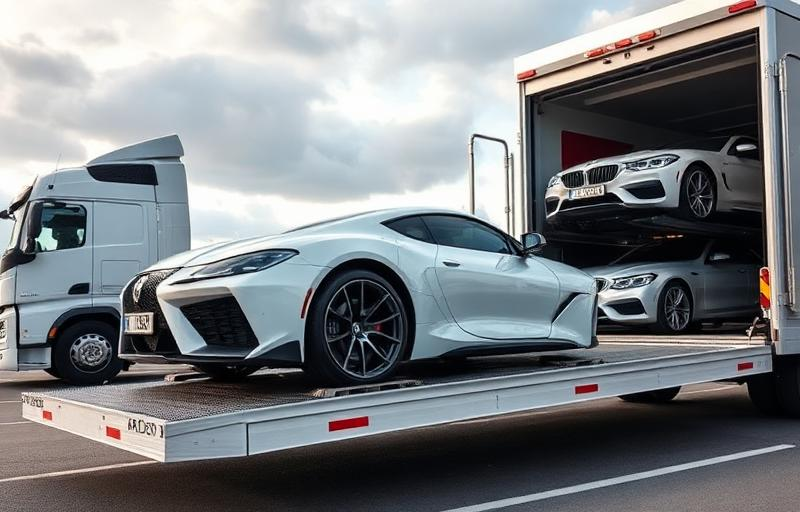
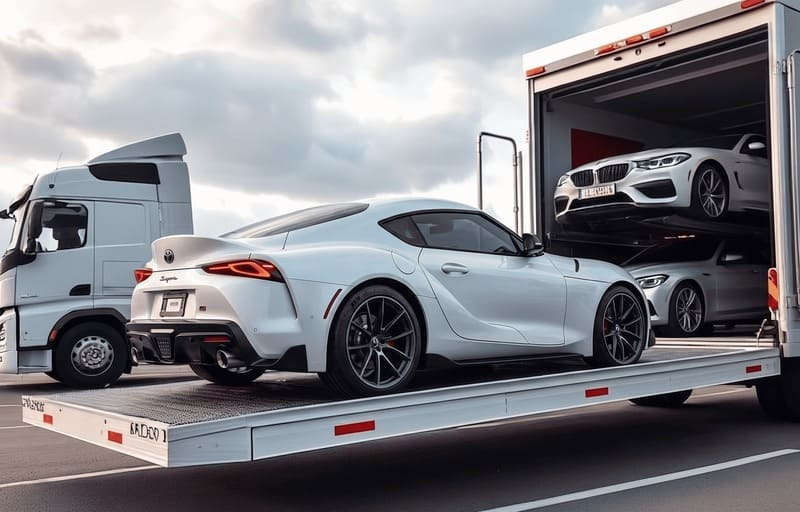
Few design changes and support for whatsapp

diff --git a/src/components/brand/WhatsappIcon.tsx b/src/components/brand/WhatsappIcon.tsx
@@ -1,0 +1,15 @@
+import React from "react";
+
+export function WhatsappIcon(props: React.SVGProps<SVGSVGElement>) {
+  return (
+    <svg
+      viewBox="0 0 24 24"
+      fill="currentColor"
+      width="1em"
+      height="1em"
+      {...props}
+    >
+      <path d="M17.472 14.382c-.297-.149-1.758-.867-2.03-.967-.273-.099-.471-.148-.67.15-.197.297-.767.966-.94 1.164-.173.199-.347.223-.644.075-.297-.15-1.255-.463-2.39-1.475-.883-.788-1.48-1.761-1.653-2.059-.173-.297-.018-.458.13-.606.134-.133.298-.347.446-.52.149-.174.198-.298.298-.497.099-.198.05-.371-.025-.52-.075-.149-.669-1.612-.916-2.207-.242-.579-.487-.5-.669-.51-.173-.008-.371-.01-.57-.01-.198 0-.52.074-.792.372-.272.297-1.04 1.016-1.04 2.479 0 1.462 1.065 2.875 1.213 3.074.149.198 2.096 3.2 5.077 4.487.709.306 1.262.489 1.694.625.712.227 1.36.195 1.871.118.571-.085 1.758-.719 2.006-1.413.248-.694.248-1.289.173-1.413-.074-.124-.272-.198-.57-.347m-5.421 7.403h-.004a9.87 9.87 0 01-5.031-1.378l-.361-.214-3.741.982.998-3.648-.235-.374a9.86 9.86 0 01-1.51-5.26c.001-5.45 4.436-9.884 9.888-9.884 2.64 0 5.122 1.03 6.988 2.898a9.825 9.825 0 012.893 6.994c-.003 5.45-4.437 9.884-9.885 9.884m8.413-18.297A11.815 11.815 0 0012.05 0C5.495 0 .16 5.335.157 11.892c0 2.096.547 4.142 1.588 5.945L0 24l6.335-1.662c1.746.953 3.71 1.458 5.704 1.459h.005c6.554 0 11.89-5.335 11.893-11.893a11.821 11.821 0 00-3.48-8.413z" />
+    </svg>
+  );
+}

diff --git a/src/components/layout/SiteFooter.tsx b/src/components/layout/SiteFooter.tsx
@@ -11,6 +11,7 @@ import {
 import { NexaviaLogo } from "@/components/brand/NexaviaLogo";
 import { Container } from "./Container";
 import { contactInfo, quickLinks, servicesList } from "./nav-config";
+import { WhatsappIcon } from "@/components/brand/WhatsappIcon";
 
 export function SiteFooter() {
   return (
@@ -30,6 +31,7 @@ export function SiteFooter() {
                 { Icon: Linkedin, href: "https://www.linkedin.com/company/nexaviaglobalcargo", label: "LinkedIn" },
                 { Icon: Facebook, href: "#", label: "Facebook" },
                 { Icon: Instagram, href: "https://www.instagram.com/nexavia_global_cargo/", label: "Instagram" },
+                { Icon: WhatsappIcon, href: "https://wa.me/[phone redacted]?text=I'd%20like%20to%20know%20about%20the%20services", label: "WhatsApp" },
                 { Icon: Mail, href: `mailto:${contactInfo.email}`, label: "Email" },
               ].map(({ Icon, href, label }) => (
                 <a
@@ -80,7 +82,18 @@ export function SiteFooter() {
             </div>
             <div className="flex gap-3 text-sm text-white/70">
               <Phone className="h-4 w-4 shrink-0 text-gold mt-0.5" />
-              <a href={`tel:${contactInfo.phone}`}>{contactInfo.phone}</a>
+              <a href={`tel:${contactInfo.phone}`} className="hover:text-gold transition-colors">{contactInfo.phone}</a>
+            </div>
+            <div className="flex gap-3 text-sm text-white/70">
+              <WhatsappIcon className="h-4 w-4 shrink-0 text-gold mt-0.5" />
+              <a
+                href="https://wa.me/971501753459?text=I'd%20like%20to%20know%20about%20the%20services"
+                target="_blank"
+                rel="noopener noreferrer"
+                className="hover:text-gold transition-colors"
+              >
+                {contactInfo.phone} (WhatsApp)
+              </a>
             </div>
             <div className="flex gap-3 text-sm text-white/70">
               <Mail className="h-4 w-4 shrink-0 text-gold mt-0.5" />

diff --git a/src/components/marketing/ProposalModal.tsx b/src/components/marketing/ProposalModal.tsx
@@ -22,6 +22,7 @@ import {
 } from "@/components/ui/select";
 import { ArrowRight, Send } from "lucide-react";
 import { servicesList } from "@/components/layout/nav-config";
+import { WhatsappIcon } from "@/components/brand/WhatsappIcon";
 
 const schema = z.object({
   name: z.string().trim().min(2, "Please enter your full name").max(100),
@@ -98,7 +99,7 @@ function ProposalDialog({
 
   return (
     <Dialog open={open} onOpenChange={onOpenChange}>
-      <DialogContent className="max-w-lg">
+      <DialogContent className="max-w-lg w-[92%] sm:w-full">
         <DialogHeader>
           <DialogTitle className="text-navy text-2xl">Request a Proposal</DialogTitle>
           <DialogDescription>
@@ -149,6 +150,16 @@ function ProposalDialog({
             {submitting ? "Sending…" : "Send Request"}
             {submitting ? <Send className="h-4 w-4" /> : <ArrowRight className="h-4 w-4" />}
           </button>
+
+          <a
+            href="https://wa.me/971501753459?text=I'd%20like%20to%20know%20about%20the%20services"
+            target="_blank"
+            rel="noopener noreferrer"
+            className="mt-3 inline-flex w-full items-center justify-center gap-2 rounded-md bg-[#25D366] px-6 py-3 text-sm font-semibold text-white transition-colors hover:bg-[#20ba59] shadow-sm cursor-pointer"
+          >
+            <WhatsappIcon className="h-4 w-4" />
+            Contact via WhatsApp
+          </a>
         </form>
       </DialogContent>
     </Dialog>

diff --git a/src/components/layout/nav-config.ts b/src/components/layout/nav-config.ts
@@ -51,7 +51,7 @@ export const quickLinks = [
 
 export const contactInfo = {
   address: "Al Garhoud, Dubai, United Arab Emirates",
-  phone: "[phone redacted]",
+  phone: "[phone redacted]",
   email: "[email redacted]",
-  website: "wwww.nexaviaglobalcargo.com",
+  website: "www.nexaviaglobalcargo.com",
 };